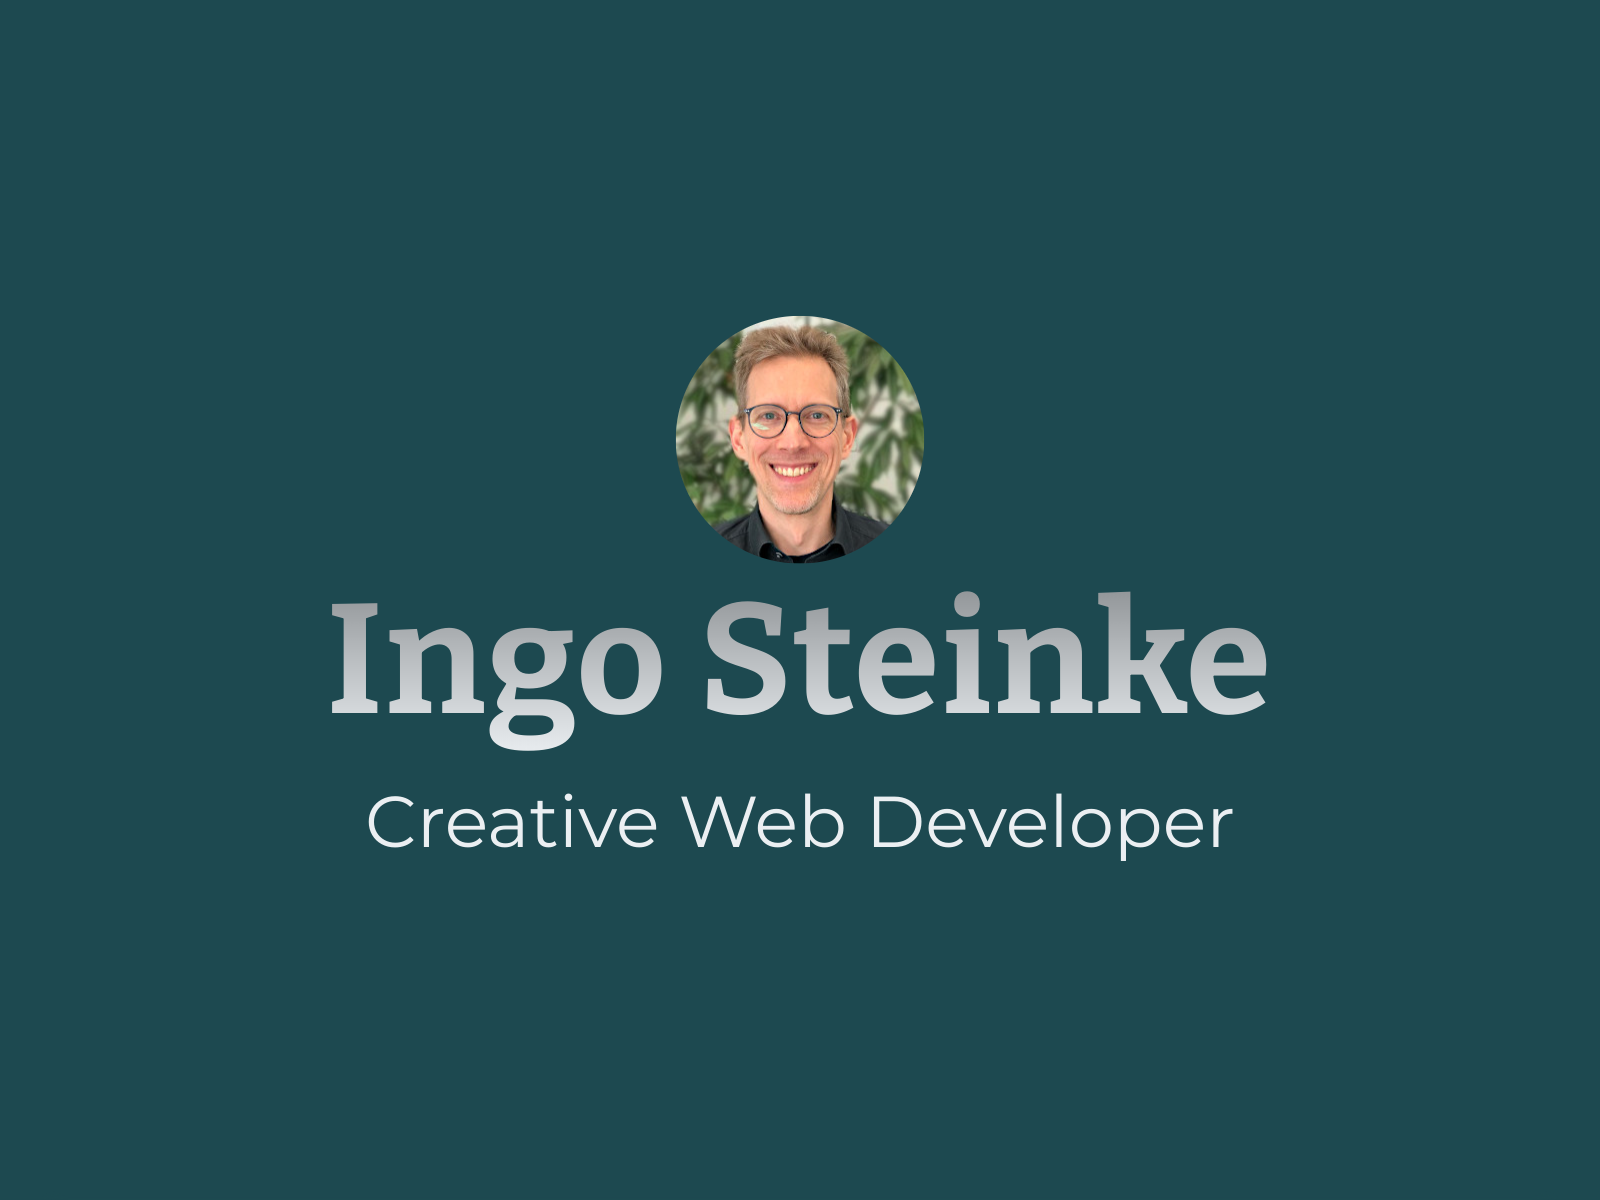
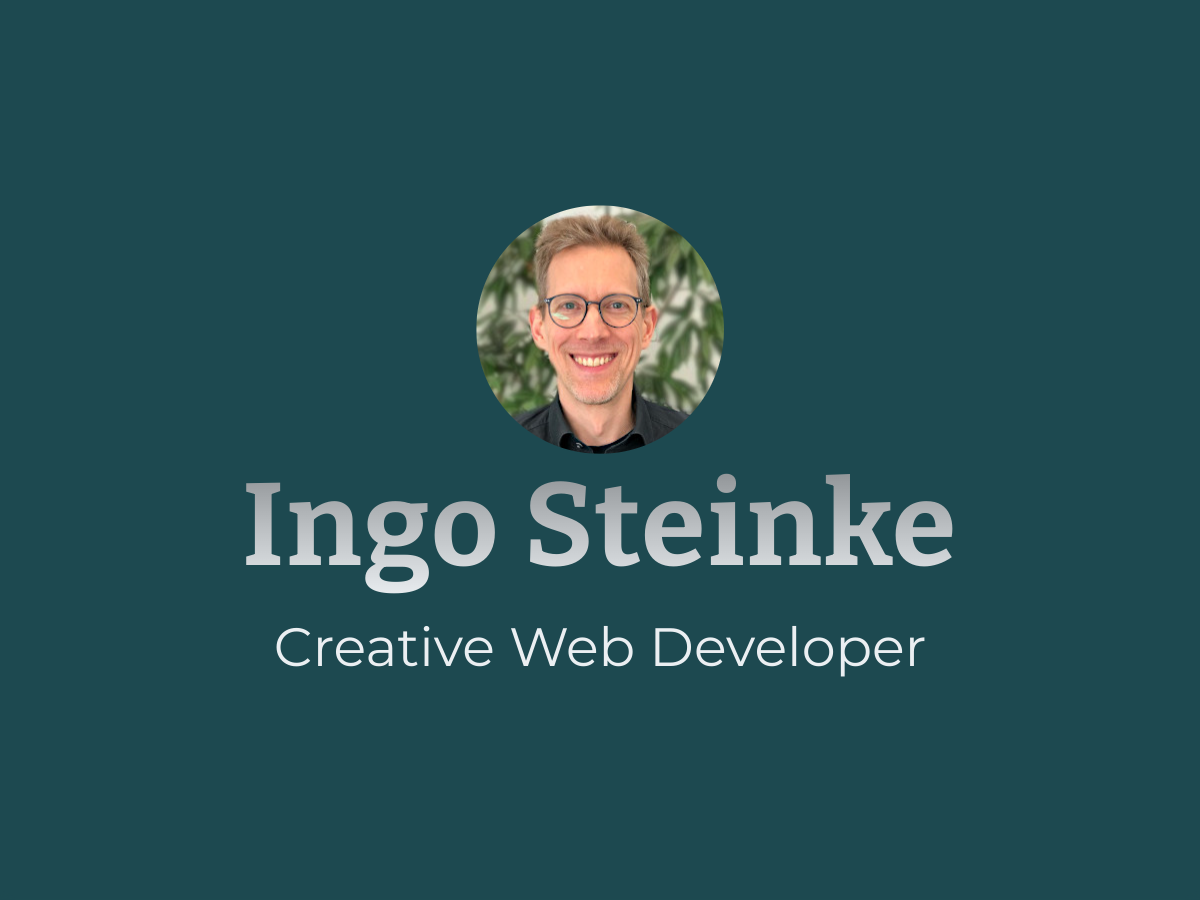
refactor codecept config, rebuild base screenshot

Changed region(s): [[0.185, 0.2178, 0.8017, 0.7467]]

diff --git a/codecept.conf.js b/codecept.conf.js
@@ -1,48 +1,7 @@
 const { setHeadlessWhen, setWindowSize } = require('@codeceptjs/configure');
+exports.config = require ('./codecept.common.conf.js');
+exports.config.helpers.Puppeteer.url = 'http://localhost:1974'; // or 'https://www.ingo-steinke.de';
 
 // turn on headless mode when running with HEADLESS=true environment variable
 // export HEADLESS=true && npx codeceptjs run
 setHeadlessWhen(process.env.HEADLESS);
-
-setWindowSize(1600, 1200);
-
-exports.config = {
-  tests: './codecept/*_test.js',
-  output: './codecept/output',
-  helpers: {
-    Puppeteer: {
-      url: 'http://localhost:1974',
-      show: true,
-      windowSize: '1200x900'
-    },
-    "ResembleHelper" : {
-      "require": "codeceptjs-resemblehelper",
-      "screenshotFolder" : "./codecept/output/",
-      "baseFolder": "./codecept/screenshots/base/",
-      "diffFolder": "./codecept/screenshots/diff/"
-    }
-  },
-  include: {
-    I: './codecept/steps_file.js'
-  },
-  bootstrap: null,
-  mocha: {},
-  name: 'ingo-steinke.de',
-  plugins: {
-    testomatio: {
-      enabled: true,
-      require: '@testomatio/reporter/lib/adapter/codecept',
-      apiKey: process.env.TESTOMATIO,
-    },
-    pauseOnFail: {},
-    retryFailedStep: {
-      enabled: true
-    },
-    tryTo: {
-      enabled: true
-    },
-    screenshotOnFail: {
-      enabled: true
-    }
-  }
-}

diff --git a/codecept.common.conf.js b/codecept.common.conf.js
@@ -1,0 +1,40 @@
+module.exports = {
+  tests: './codecept/*_test.js',
+  output: './codecept/output',
+  helpers: {
+    Puppeteer: {
+      url: '',
+      show: true,
+      windowSize: '1200x900'
+    },
+    "ResembleHelper" : {
+      "require": "codeceptjs-resemblehelper",
+      "screenshotFolder" : "./codecept/output/",
+      "baseFolder": "./codecept/screenshots/base/",
+      "diffFolder": "./codecept/screenshots/diff/"
+    }
+  },
+  include: {
+    I: './codecept/steps_file.js'
+  },
+  bootstrap: null,
+  mocha: {},
+  name: 'ingo-steinke.de',
+  plugins: {
+    testomatio: {
+      enabled: true,
+      require: '@testomatio/reporter/lib/adapter/codecept',
+      apiKey: process.env.TESTOMATIO,
+    },
+    pauseOnFail: {},
+    retryFailedStep: {
+      enabled: true
+    },
+    tryTo: {
+      enabled: true
+    },
+    screenshotOnFail: {
+      enabled: true
+    }
+  }
+}

diff --git a/codecept.ci.conf.js b/codecept.ci.conf.js
@@ -1,12 +1,7 @@
-// in codecept.conf.js
-const { setWindowSize } = require('@codeceptjs/configure');
+const { setHeadlessWhen, setWindowSize } = require('@codeceptjs/configure');
+exports.config = require ('./codecept.common.conf.js');
+exports.config.helpers.Puppeteer.url = 'https://www.ingo-steinke.de';
 
-setWindowSize(1600, 1200);
-
-exports.config = {
-  helpers: {
-    Puppeteer: {
-      url: 'https://www.ingo-steinke.de',
-    }
-  }
-}
+// turn on headless mode when running with HEADLESS=true environment variable
+// export HEADLESS=true && npx codeceptjs run
+setHeadlessWhen(process.env.HEADLESS);
